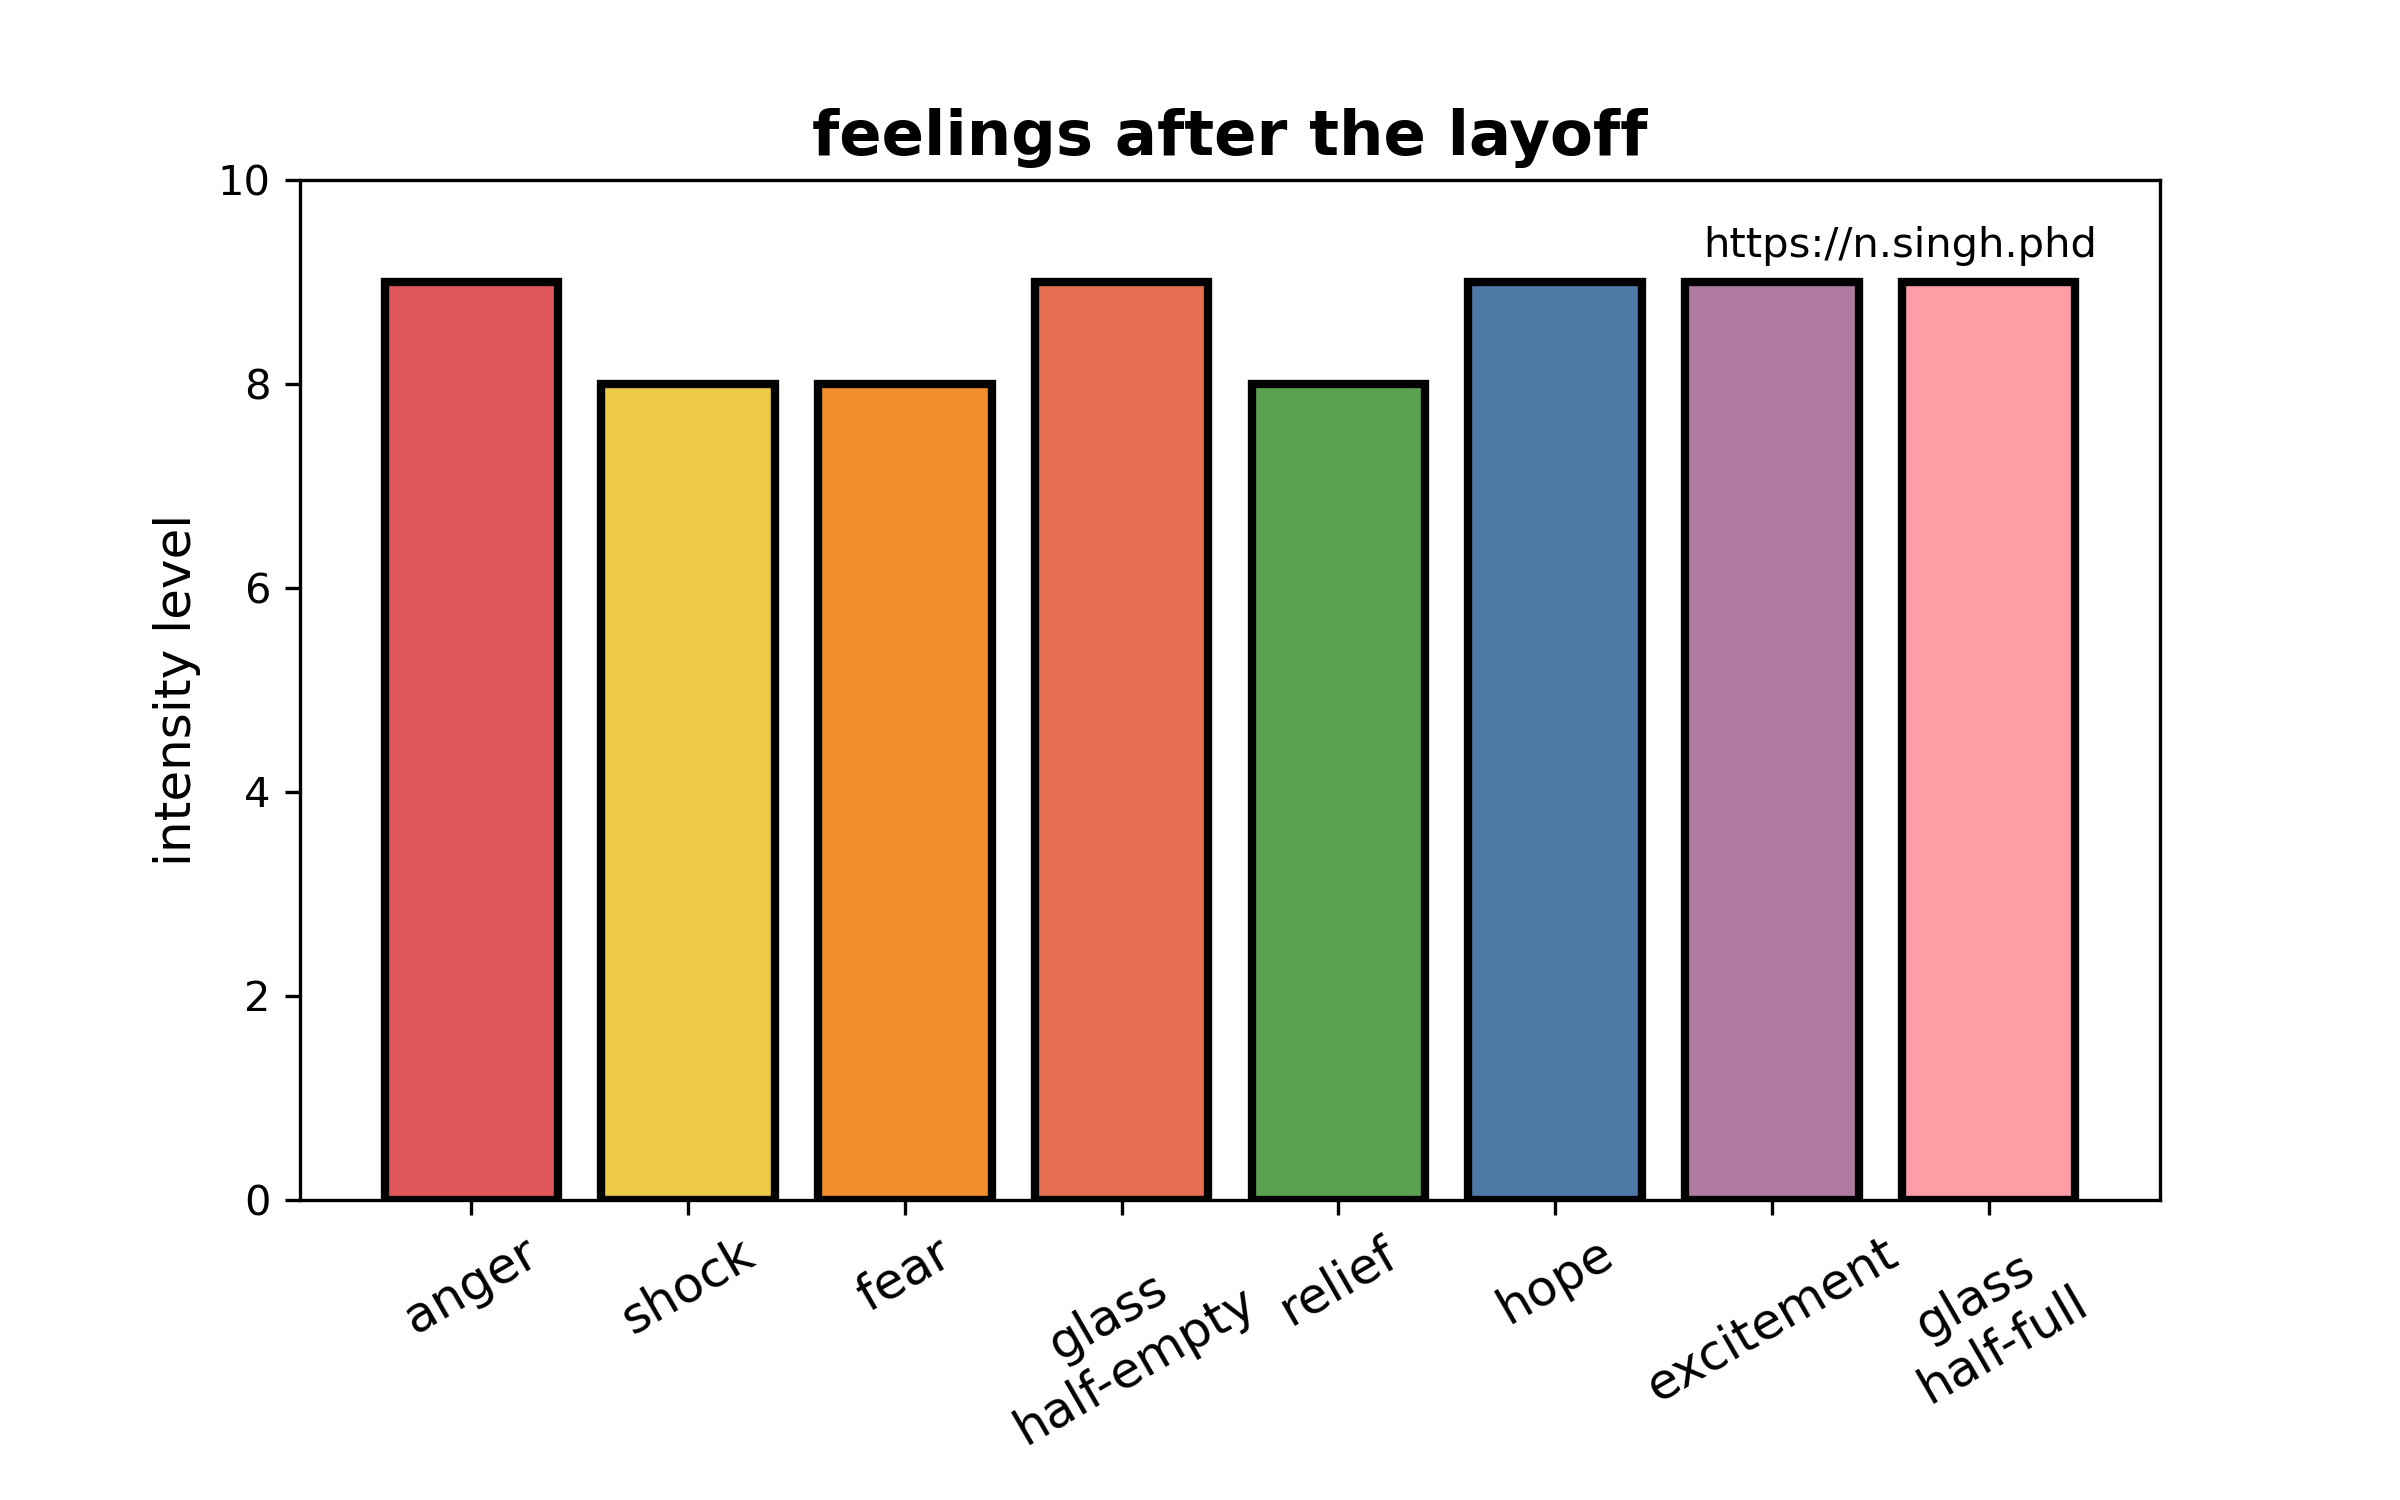
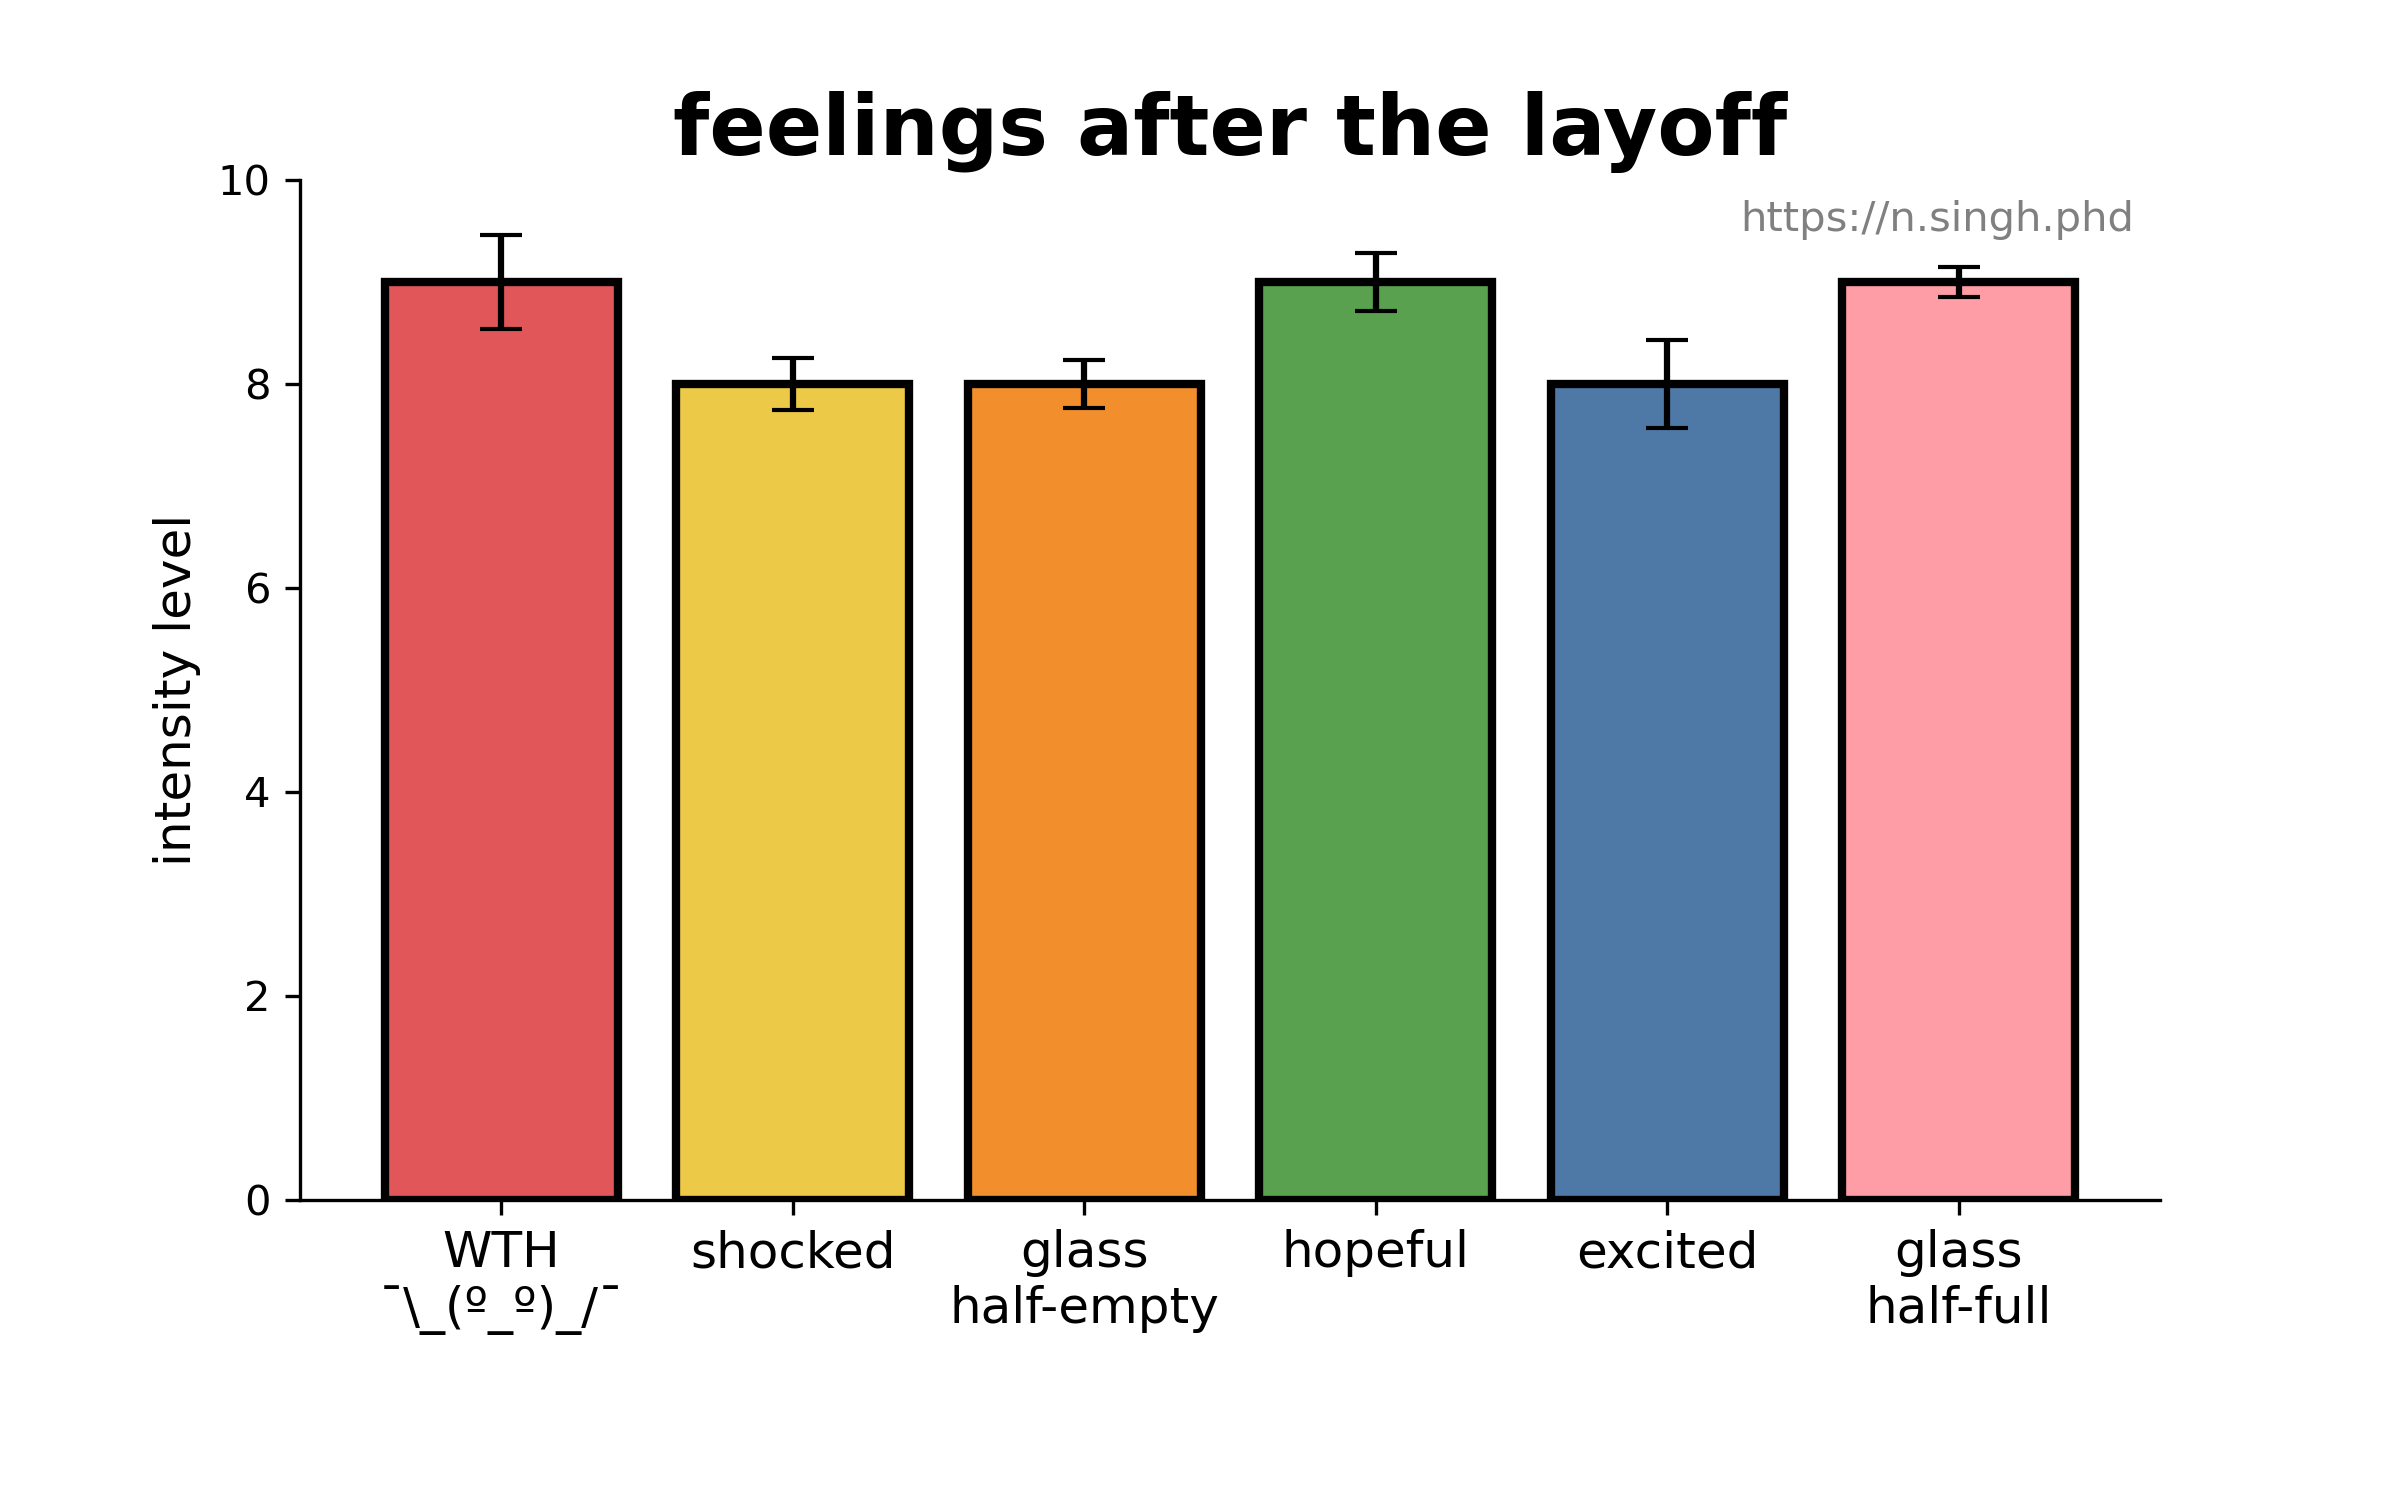
feelings adjustment

diff --git a/250324_feelings-after-layoff.py b/250324_feelings-after-layoff.py
@@ -3,40 +3,47 @@ import numpy as np
 
 # Feelings categories
 feelings = [
-    "anger", "shock", "fear", "glass\nhalf-empty",      # Negative
-    "relief", "hope", "excitement", "glass\nhalf-full"  # Positive
+    "WTH\n¯\\_(º_º)_/¯", "shocked", "glass\nhalf-empty",    # Negative
+    "hopeful", "excited", "glass\nhalf-full"                # Positive
 ]
 
 # Generate slightly uneven but roughly uniform values
 np.random.seed(123456)
 values = np.random.randint(8, 10, size=len(feelings))
+error = np.random.uniform(0.1, 0.5, size=len(feelings))
 
 # Define colors
 colors = [
-    "#E15759", "#EDC948", "#F28E2B", "#e76f51", # Negative tones
-    "#59A14F", "#4E79A7", "#B07AA1", "#FF9DA7"  # Positive tones
+    "#E15759", "#EDC948", "#F28E2B", # Negative tones
+    "#59A14F", "#4E79A7", "#FF9DA7"  # Positive tones
 ]
 
 # Create bar plot
 fig, ax = plt.subplots(figsize=(8, 5))
-bars = ax.bar(feelings, values, color=colors, edgecolor='black', linewidth=2)
+bars = ax.bar(feelings, values, 
+              yerr=error, capsize=5, 
+              color=colors, edgecolor='black', linewidth=2)
 
 # Add labels and title
 ax.set_ylabel("intensity level", fontsize=12)
-ax.set_title("feelings after the layoff", fontsize=15, fontweight="bold")
+ax.set_title("feelings after the layoff", fontsize=20, fontweight="bold")
 ax.set_ylim(0, max(values) + 1)
 
 # Add website text in the top right corner
 website_text = "https://n.singh.phd"
-ax.text(7.5, max(values) + 0.25, 
-        website_text, fontsize=10, color="black", ha="right")
+ax.text(5.6, max(values) + 0.5, 
+        website_text, fontsize=10, color="gray", ha="right")
 
 # Make it look more fun by tilting labels
-plt.xticks(rotation=30, fontsize=12)
+plt.xticks(rotation=0, fontsize=12)
 plt.yticks(fontsize=10)
 
-# Save plot
+# adjust plot and remove extra spines
 plt.subplots_adjust(bottom=0.2)
+ax.spines['top'].set_visible(False)
+ax.spines['right'].set_visible(False)
+
+# Save plot
 plt.savefig("plots/250324_feelings-after-layoff.png", dpi=300)
 
 # Show plot
